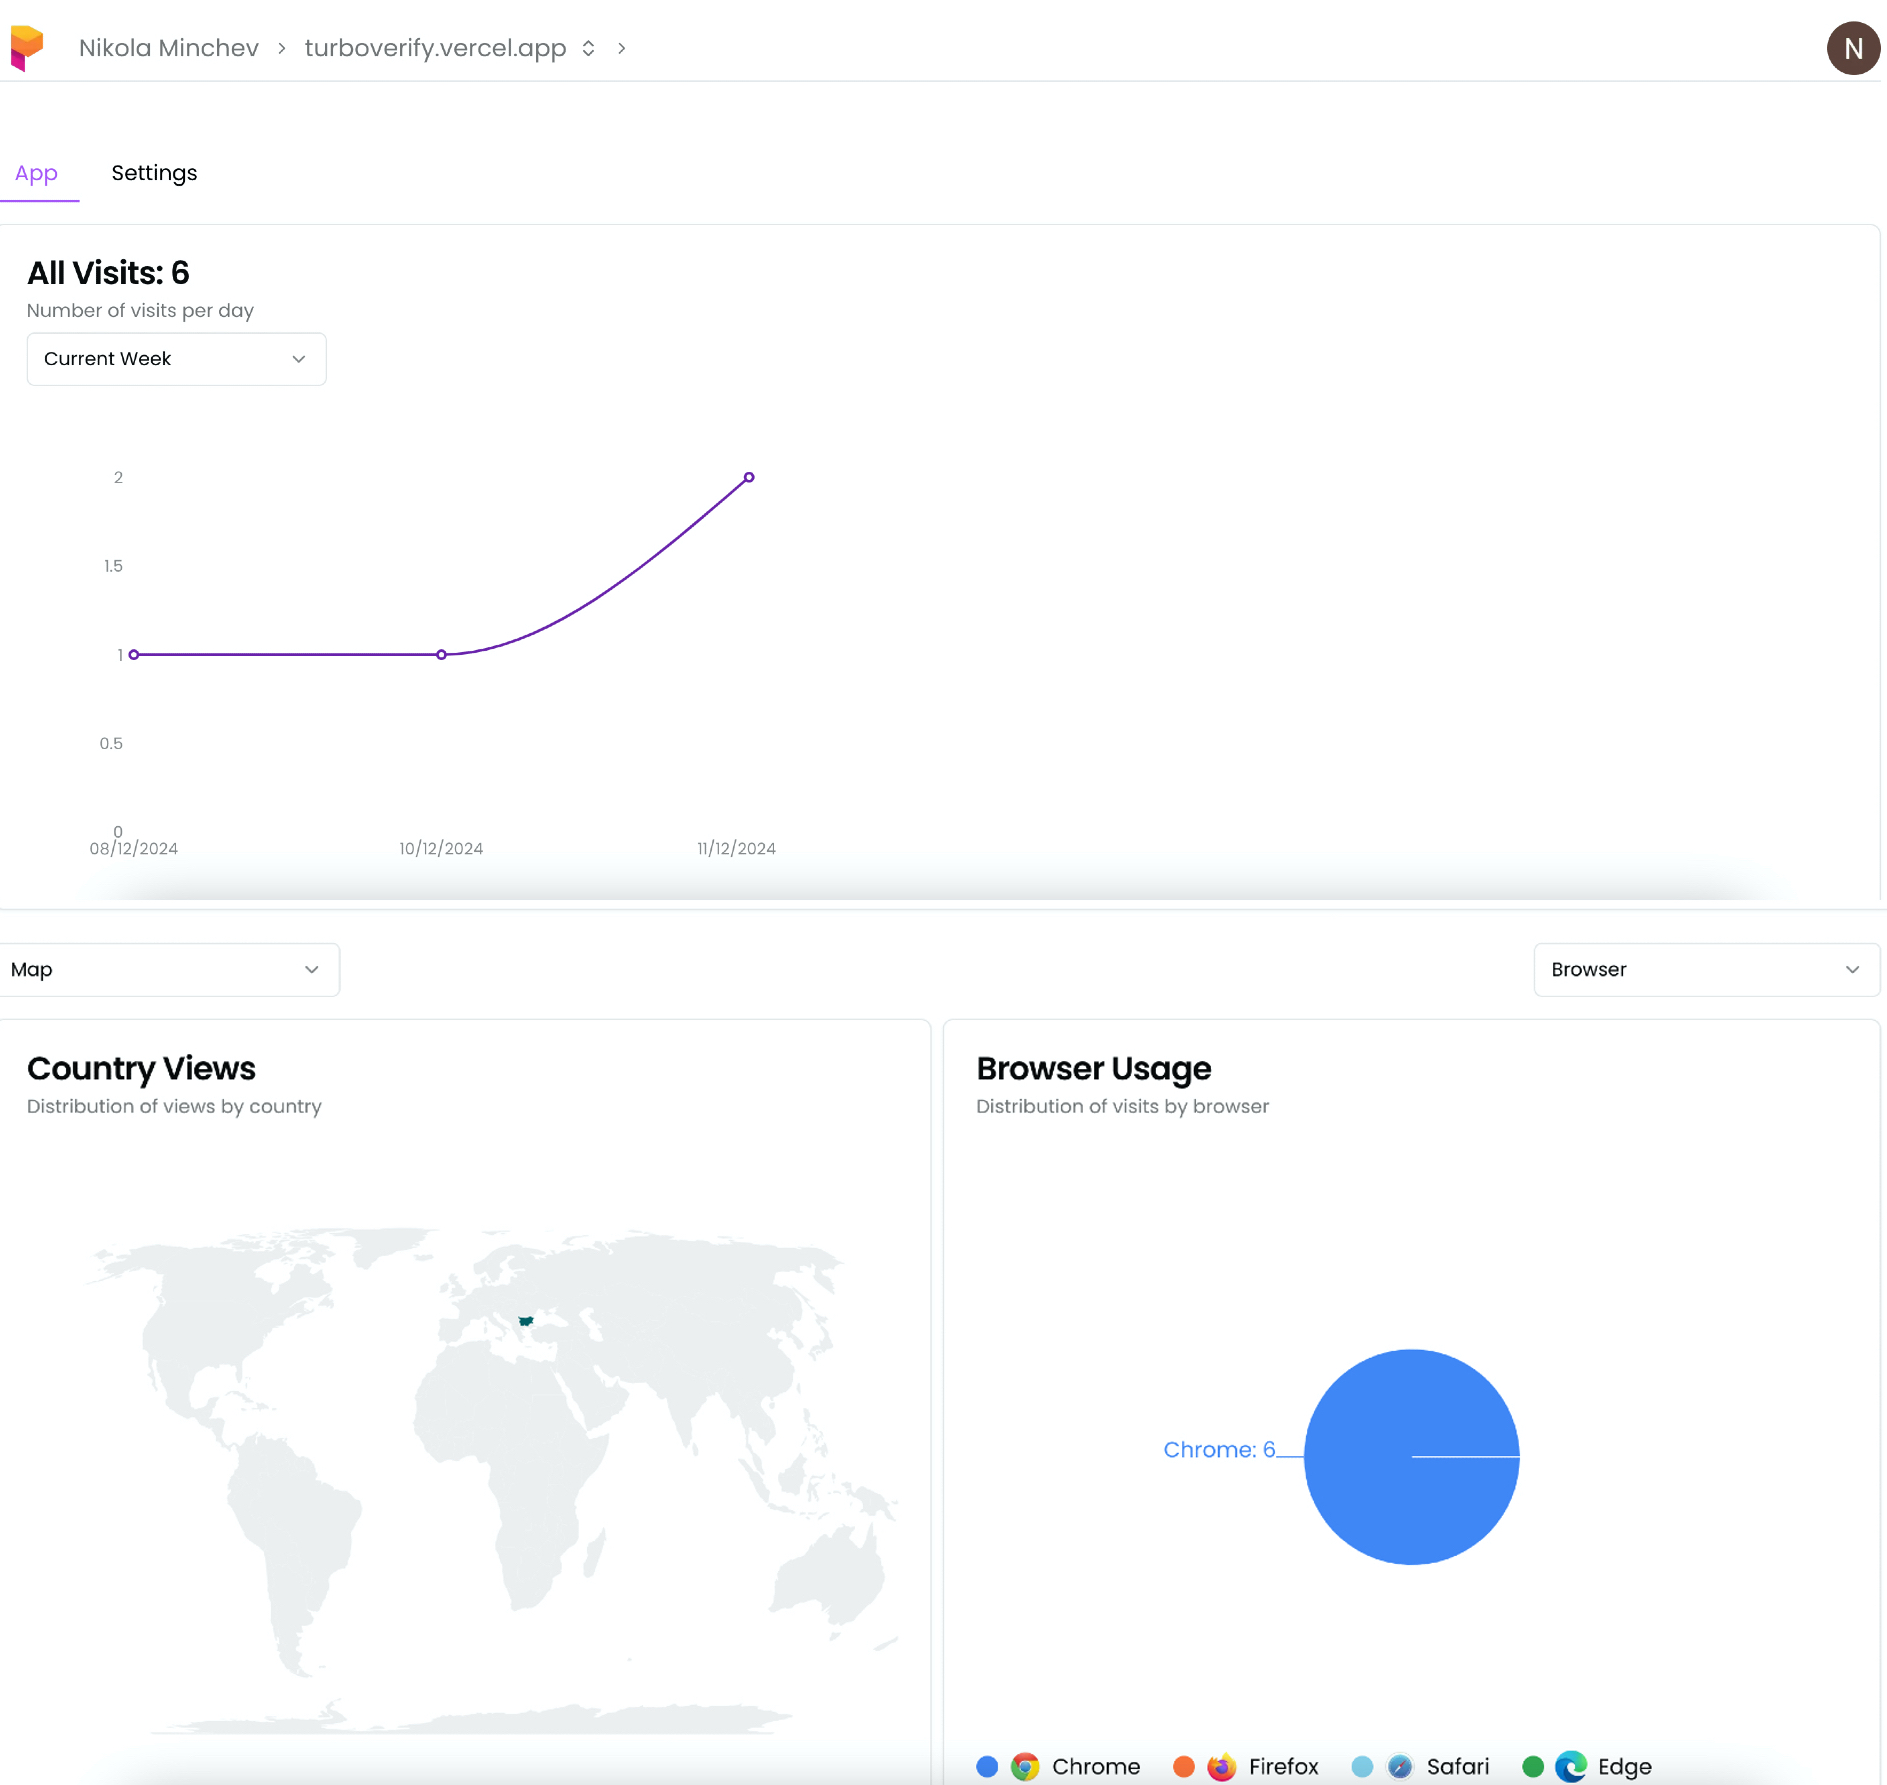
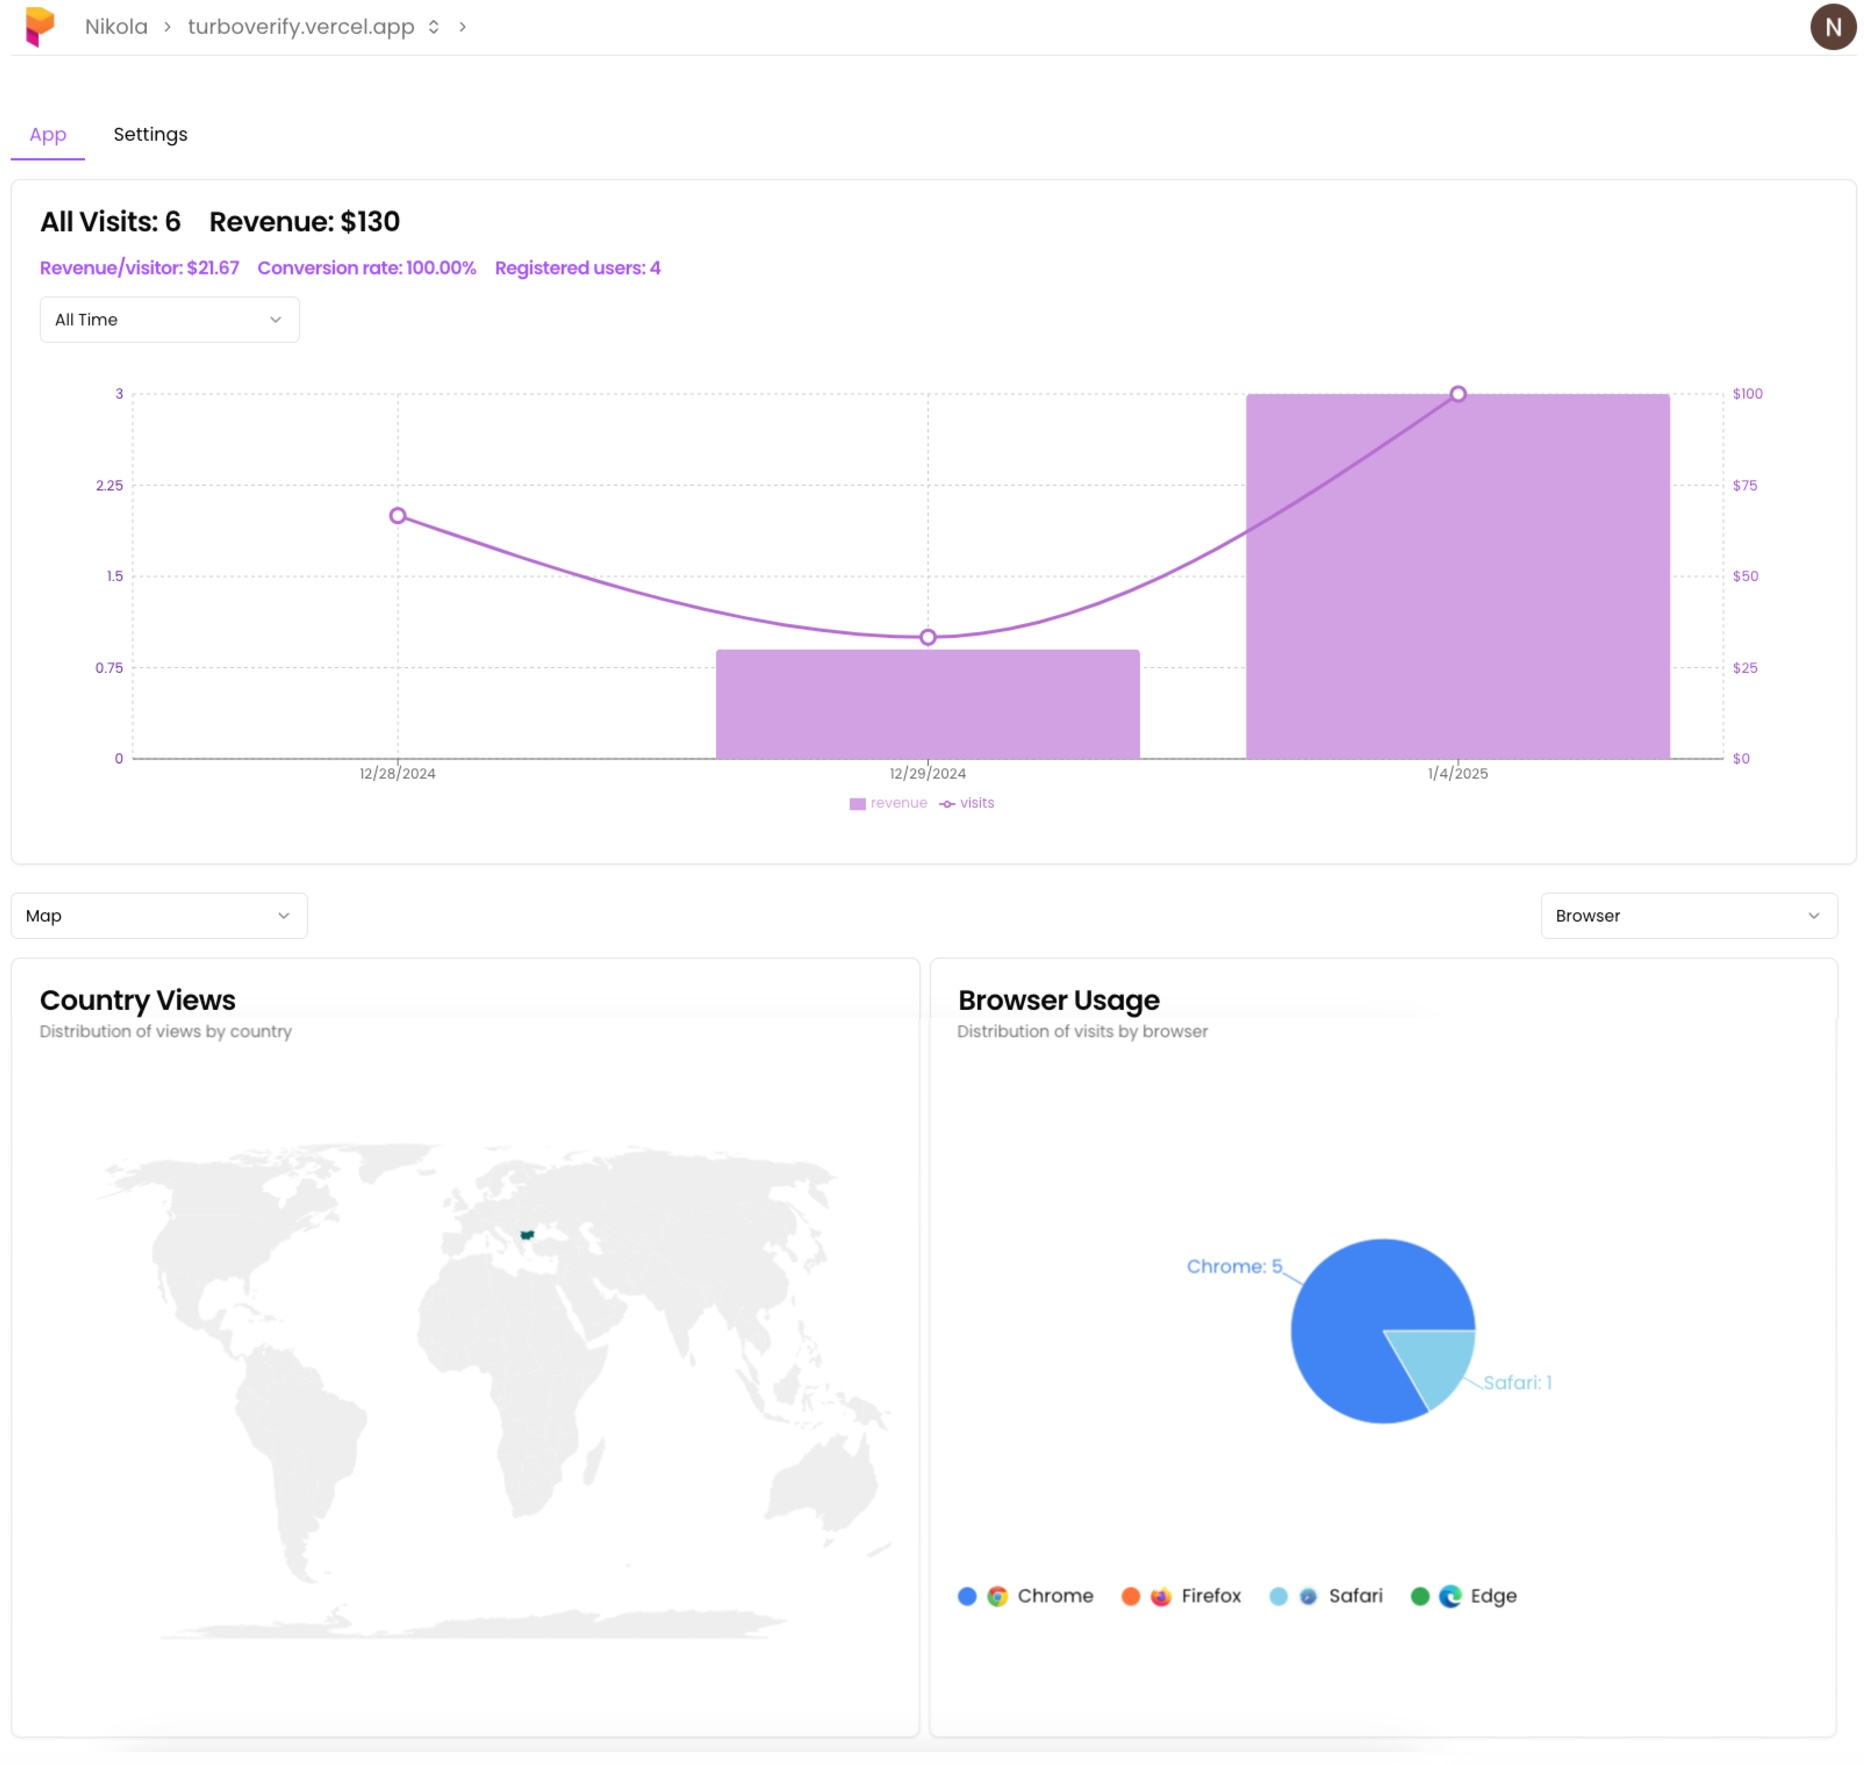
new hero image, some chart adjustments

diff --git a/src/app/dashboard/projects/[id]/page.jsx b/src/app/dashboard/projects/[id]/page.jsx
@@ -304,14 +304,6 @@ const ProjectPage = () => {
             visitsData={visits}
             project={project}
           />
-
-          <p>Signins: {project?.signIns}</p>
-
-          <div className="flex flex-col sm:flex-row gap-2 mt-6">
-            <PagesChart visitsData={visits} />
-            <ReferrerChart visitsData={visits} />
-          </div>
-
           <div className="flex justify-between mb-4 mt-6 mr-4">
             <div className="w-64">
               <Select
@@ -362,6 +354,11 @@ const ProjectPage = () => {
               <BrowserChart visitsData={visits} />
             )}
             {selectedChart === "os" && <OsChart visitsData={visits} />}
+          </div>
+
+          <div className="flex flex-col sm:flex-row gap-2 mt-6">
+            <PagesChart visitsData={visits} />
+            <ReferrerChart visitsData={visits} />
           </div>
 
           {visits.length > 0 ? (

diff --git a/src/app/dashboard/projects/[id]/components/Settings.jsx b/src/app/dashboard/projects/[id]/components/Settings.jsx
@@ -239,8 +239,16 @@ const Settings = ({ project, setProject, id }) => {
                 />
 
                 <div className="flex items-center gap-2 py-2">
-                  <CodeSnippetDialog title="Add Payment" code={paymentCode} />
-                  <CodeSnippetDialog title="Add Sign in" code={signInCode} />
+                  <CodeSnippetDialog
+                    title="Add Payment"
+                    code={paymentCode}
+                    dialogTitle="Payment Tracking Code Snippet"
+                  />
+                  <CodeSnippetDialog
+                    title="Add Sign in"
+                    code={signInCode}
+                    dialogTitle="User Registering Tracking Code Snippet"
+                  />
                 </div>
               </div>
               <Button

diff --git a/src/components/CodeSnippet.jsx b/src/components/CodeSnippet.jsx
@@ -12,7 +12,7 @@ import {
 import { Check, Copy } from "lucide-react";
 import { handleCopy } from "@/lib/handleCopy";
 
-export default function CodeSnippetDialog({ code, title }) {
+export default function CodeSnippetDialog({ code, title, dialogTitle }) {
   const [isOpen, setIsOpen] = useState(false);
   const [isCopied, setIsCopied] = useState(false);
 
@@ -25,7 +25,7 @@ export default function CodeSnippetDialog({ code, title }) {
       </DialogTrigger>
       <DialogContent className="max-w-[60rem]">
         <DialogHeader>
-          <DialogTitle>Code Snippet</DialogTitle>
+          <DialogTitle>{dialogTitle}</DialogTitle>
         </DialogHeader>
         <div className="relative">
           <pre className="bg-gray-100 p-4 rounded-md overflow-x-auto">

diff --git a/src/lib/seo.jsx b/src/lib/seo.jsx
@@ -10,7 +10,8 @@ export const getSEOTags = ({
 } = {}) => {
   return {
     // up to 50 characters (what does your app do for the user?) > your main should be here
-    title: title || `${config.appName} | Track every click, unlock every insight`,
+    title:
+      title || `${config.appName} | Track every click, unlock every insight`,
     // up to 160 characters (how does your app help the user?)
     description: description || config.description,
     // some keywords separated by commas. by default it will be your app name

diff --git a/src/app/dashboard/projects/[id]/components/WeeklyVisitChart.jsx b/src/app/dashboard/projects/[id]/components/WeeklyVisitChart.jsx
@@ -90,6 +90,9 @@ const WeeklyVisitChart = ({ visits, visitsData, project }) => {
               Conversion rate:{" "}
               {((project?.payments.length / visits.length) * 100).toFixed(2)}%
             </div>
+            <div className="flex items-center gap-4 text-base text-purple-500">
+              Registered users: {project?.signIns}
+            </div>
           </div>
         </CardTitle>
         <CardDescription></CardDescription>
